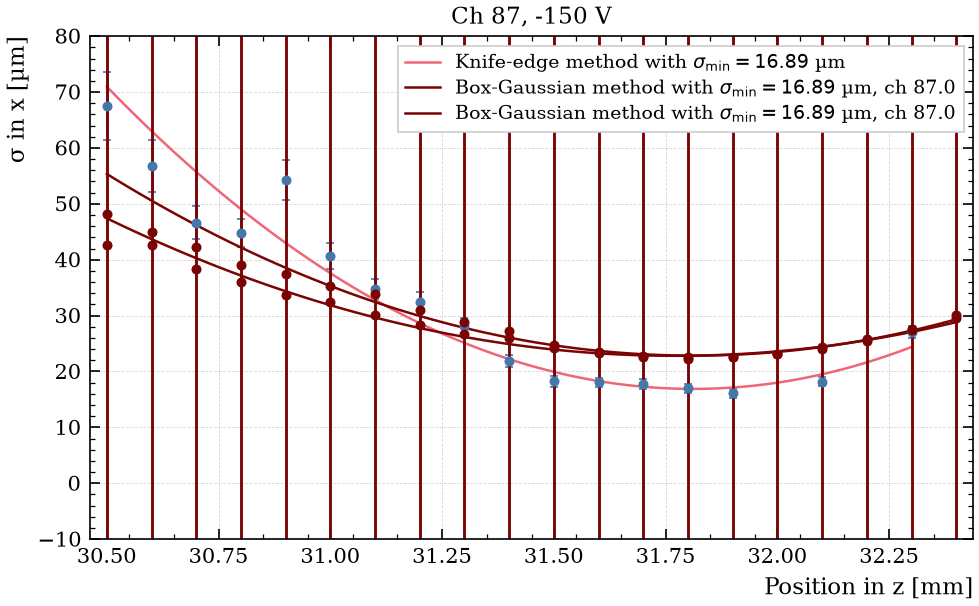
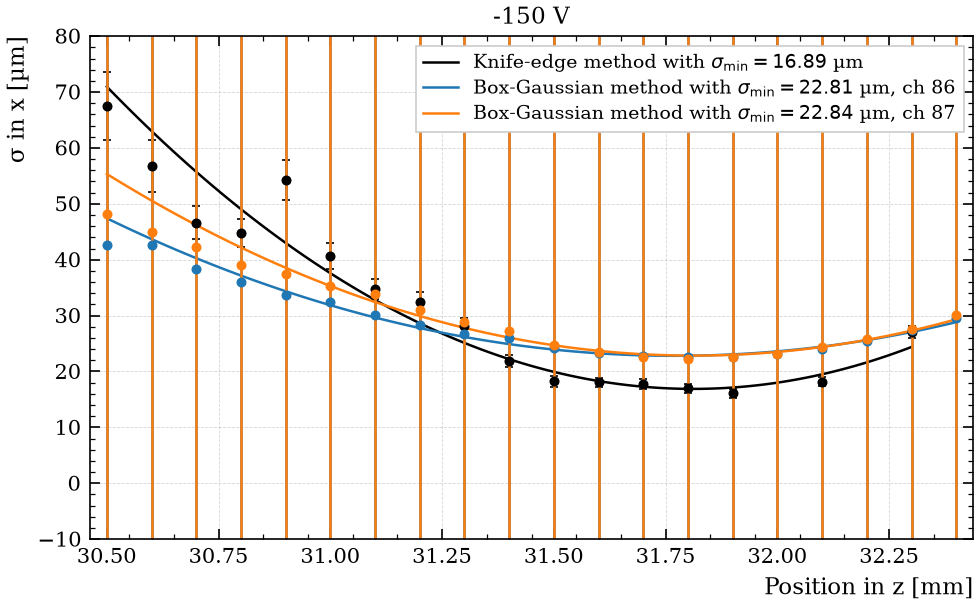
ana@ @

diff --git a/knife-edge.py b/knife-edge.py
@@ -223,25 +223,26 @@ class KnifeEdge(BaseAnalysis):
             plt.close(fig_zs)
 
             ax_comp.legend(fontsize="small", framealpha=1)
-            ax_comp.set_title(f"Ch {ch}, {voltage:g} V")
+            ax_comp.set_title(f"{voltage:g} V")
             ax_comp.set_xlabel("Position in z [mm]")
             ax_comp.set_ylabel("σ in x [µm]")
             ax_comp.set_ylim(-10, 80)
-            fig_comp.savefig(self.plotdir / f"Compiled_focus_scan.png", dpi=150)
+            fig_comp.savefig(self.plotdir / f"sigma_min_comparison.png", dpi=150)
             plt.close(fig_comp)
 
         # Comparison of the focus position z_min between the methods
         fig_z, ax_z = plt.subplots(1, 1)
         labels = list(zmins)
-        vals = [zmins[k][0] for k in labels]
-        errs = [zmins[k][1] for k in labels]
+        vals = [1000 * zmins[k][0] for k in labels]
+        errs = [1000 * zmins[k][1] for k in labels]
         colors = {"Knife-edge": "k", **{f"Ch {ch}": ch_colors[ch] for ch in active}}
         for i, (k, v, e) in enumerate(zip(labels, vals, errs)):
             ax_z.errorbar(i, v, yerr=e, fmt="o", capsize=4, color=colors[k])
         ax_z.set_xticks(range(len(labels)), labels)
         ax_z.set_xlim(-0.5, len(labels) - 0.5)
-        ax_z.set_ylabel(r"$z_{\mathrm{min}}$ [mm]")
+        ax_z.set_ylabel(r"$z_{\mathrm{min}}$ [µm]")
         ax_z.set_title("Focus position")
+        ax_z.set_ylim(min(vals)-(min(vals)*0.005), max(vals)+(max(vals)*0.005))
         ax_z.grid(True, axis="y")
         fig_z.savefig(self.plotdir / "zmin_comparison.png", dpi=150)
         plt.close(fig_z)
